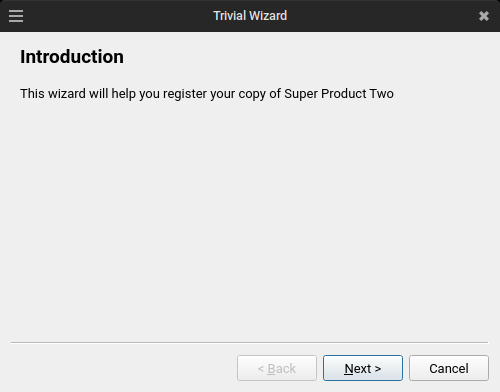
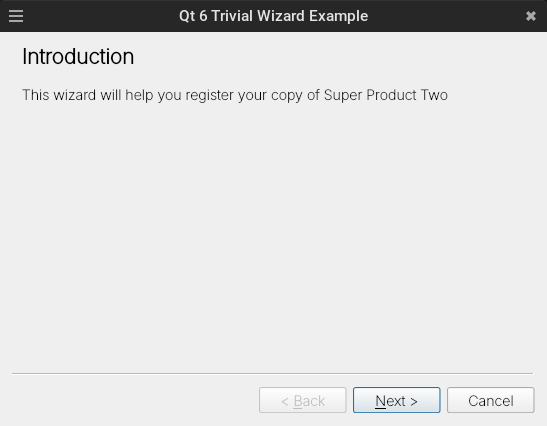
trivialwizard: Use direct parameters

Changed region(s): [[0.03, 0.8571, 0.99, 0.9796], [0.0, 0.0, 1.0, 0.1837], [0.03, 0.2143, 0.84, 0.2755]]

diff --git a/src/trivialwizard/main.c b/src/trivialwizard/main.c
@@ -1,8 +1,7 @@
 #include <libqt6c.h>
 
-QWizardPage* createIntroPage() {
+QWizardPage* create_intro_page() {
     QWizardPage* page = q_wizardpage_new2();
-
     q_wizardpage_set_title(page, "Introduction");
 
     const char* text = "This wizard will help you register your copy of Super Product Two";
@@ -16,38 +15,24 @@ QWizardPage* createIntroPage() {
     return page;
 }
 
-QWizardPage* createRegistrationPage() {
+QWizardPage* create_registration_page() {
     QWizardPage* page = q_wizardpage_new2();
-
-    const char* title = "Registration";
-    q_wizardpage_set_title(page, title);
-
-    const char* subtitle = "Please fill both fields";
-    q_wizardpage_set_sub_title(page, subtitle);
-
-    const char* name = "Name:";
-    QLabel* nameLabel = q_label_new5(name, page);
-    QLineEdit* nameLineEdit = q_lineedit_new(page);
-
-    const char* email = "Email address:";
-    QLabel* emailLabel = q_label_new5(email, page);
-    QLineEdit* emailLineEdit = q_lineedit_new(page);
+    q_wizardpage_set_title(page, "Registration");
+    q_wizardpage_set_sub_title(page, "Please fill both fields");
 
     QGridLayout* layout = q_gridlayout_new(page);
-    q_gridlayout_add_widget2(layout, nameLabel, 0, 0);
-    q_gridlayout_add_widget2(layout, nameLineEdit, 0, 1);
-    q_gridlayout_add_widget2(layout, emailLabel, 1, 0);
-    q_gridlayout_add_widget2(layout, emailLineEdit, 1, 1);
+    q_gridlayout_add_widget2(layout, q_label_new5("Name:", page), 0, 0);
+    q_gridlayout_add_widget2(layout, q_lineedit_new(page), 0, 1);
+    q_gridlayout_add_widget2(layout, q_label_new5("Email address:", page), 1, 0);
+    q_gridlayout_add_widget2(layout, q_lineedit_new(page), 1, 1);
     q_wizardpage_set_layout(page, layout);
 
     return page;
 }
 
-QWizardPage* createConclusionPage() {
+QWizardPage* create_conclusion_page() {
     QWizardPage* page = q_wizardpage_new2();
-
-    const char* title = "Conclusion";
-    q_wizardpage_set_title(page, title);
+    q_wizardpage_set_title(page, "Conclusion");
 
     const char* success = "You are now successfully registered. Have a nice day!";
     QLabel* label = q_label_new5(success, page);
@@ -65,17 +50,16 @@ int main(int argc, char* argv[]) {
 
     QWizard* wizard = q_wizard_new2();
 
-    QWizardPage* intro_page = createIntroPage();
+    QWizardPage* intro_page = create_intro_page();
     q_wizard_add_page(wizard, intro_page);
 
-    QWizardPage* registration_page = createRegistrationPage();
+    QWizardPage* registration_page = create_registration_page();
     q_wizard_add_page(wizard, registration_page);
 
-    QWizardPage* conclusion_page = createConclusionPage();
+    QWizardPage* conclusion_page = create_conclusion_page();
     q_wizard_add_page(wizard, conclusion_page);
 
-    const char* title = "Trivial Wizard";
-    q_wizard_set_window_title(wizard, title);
+    q_wizard_set_window_title(wizard, "Qt 6 Trivial Wizard Example");
     q_wizard_show(wizard);
 
     int ret = q_application_exec();
